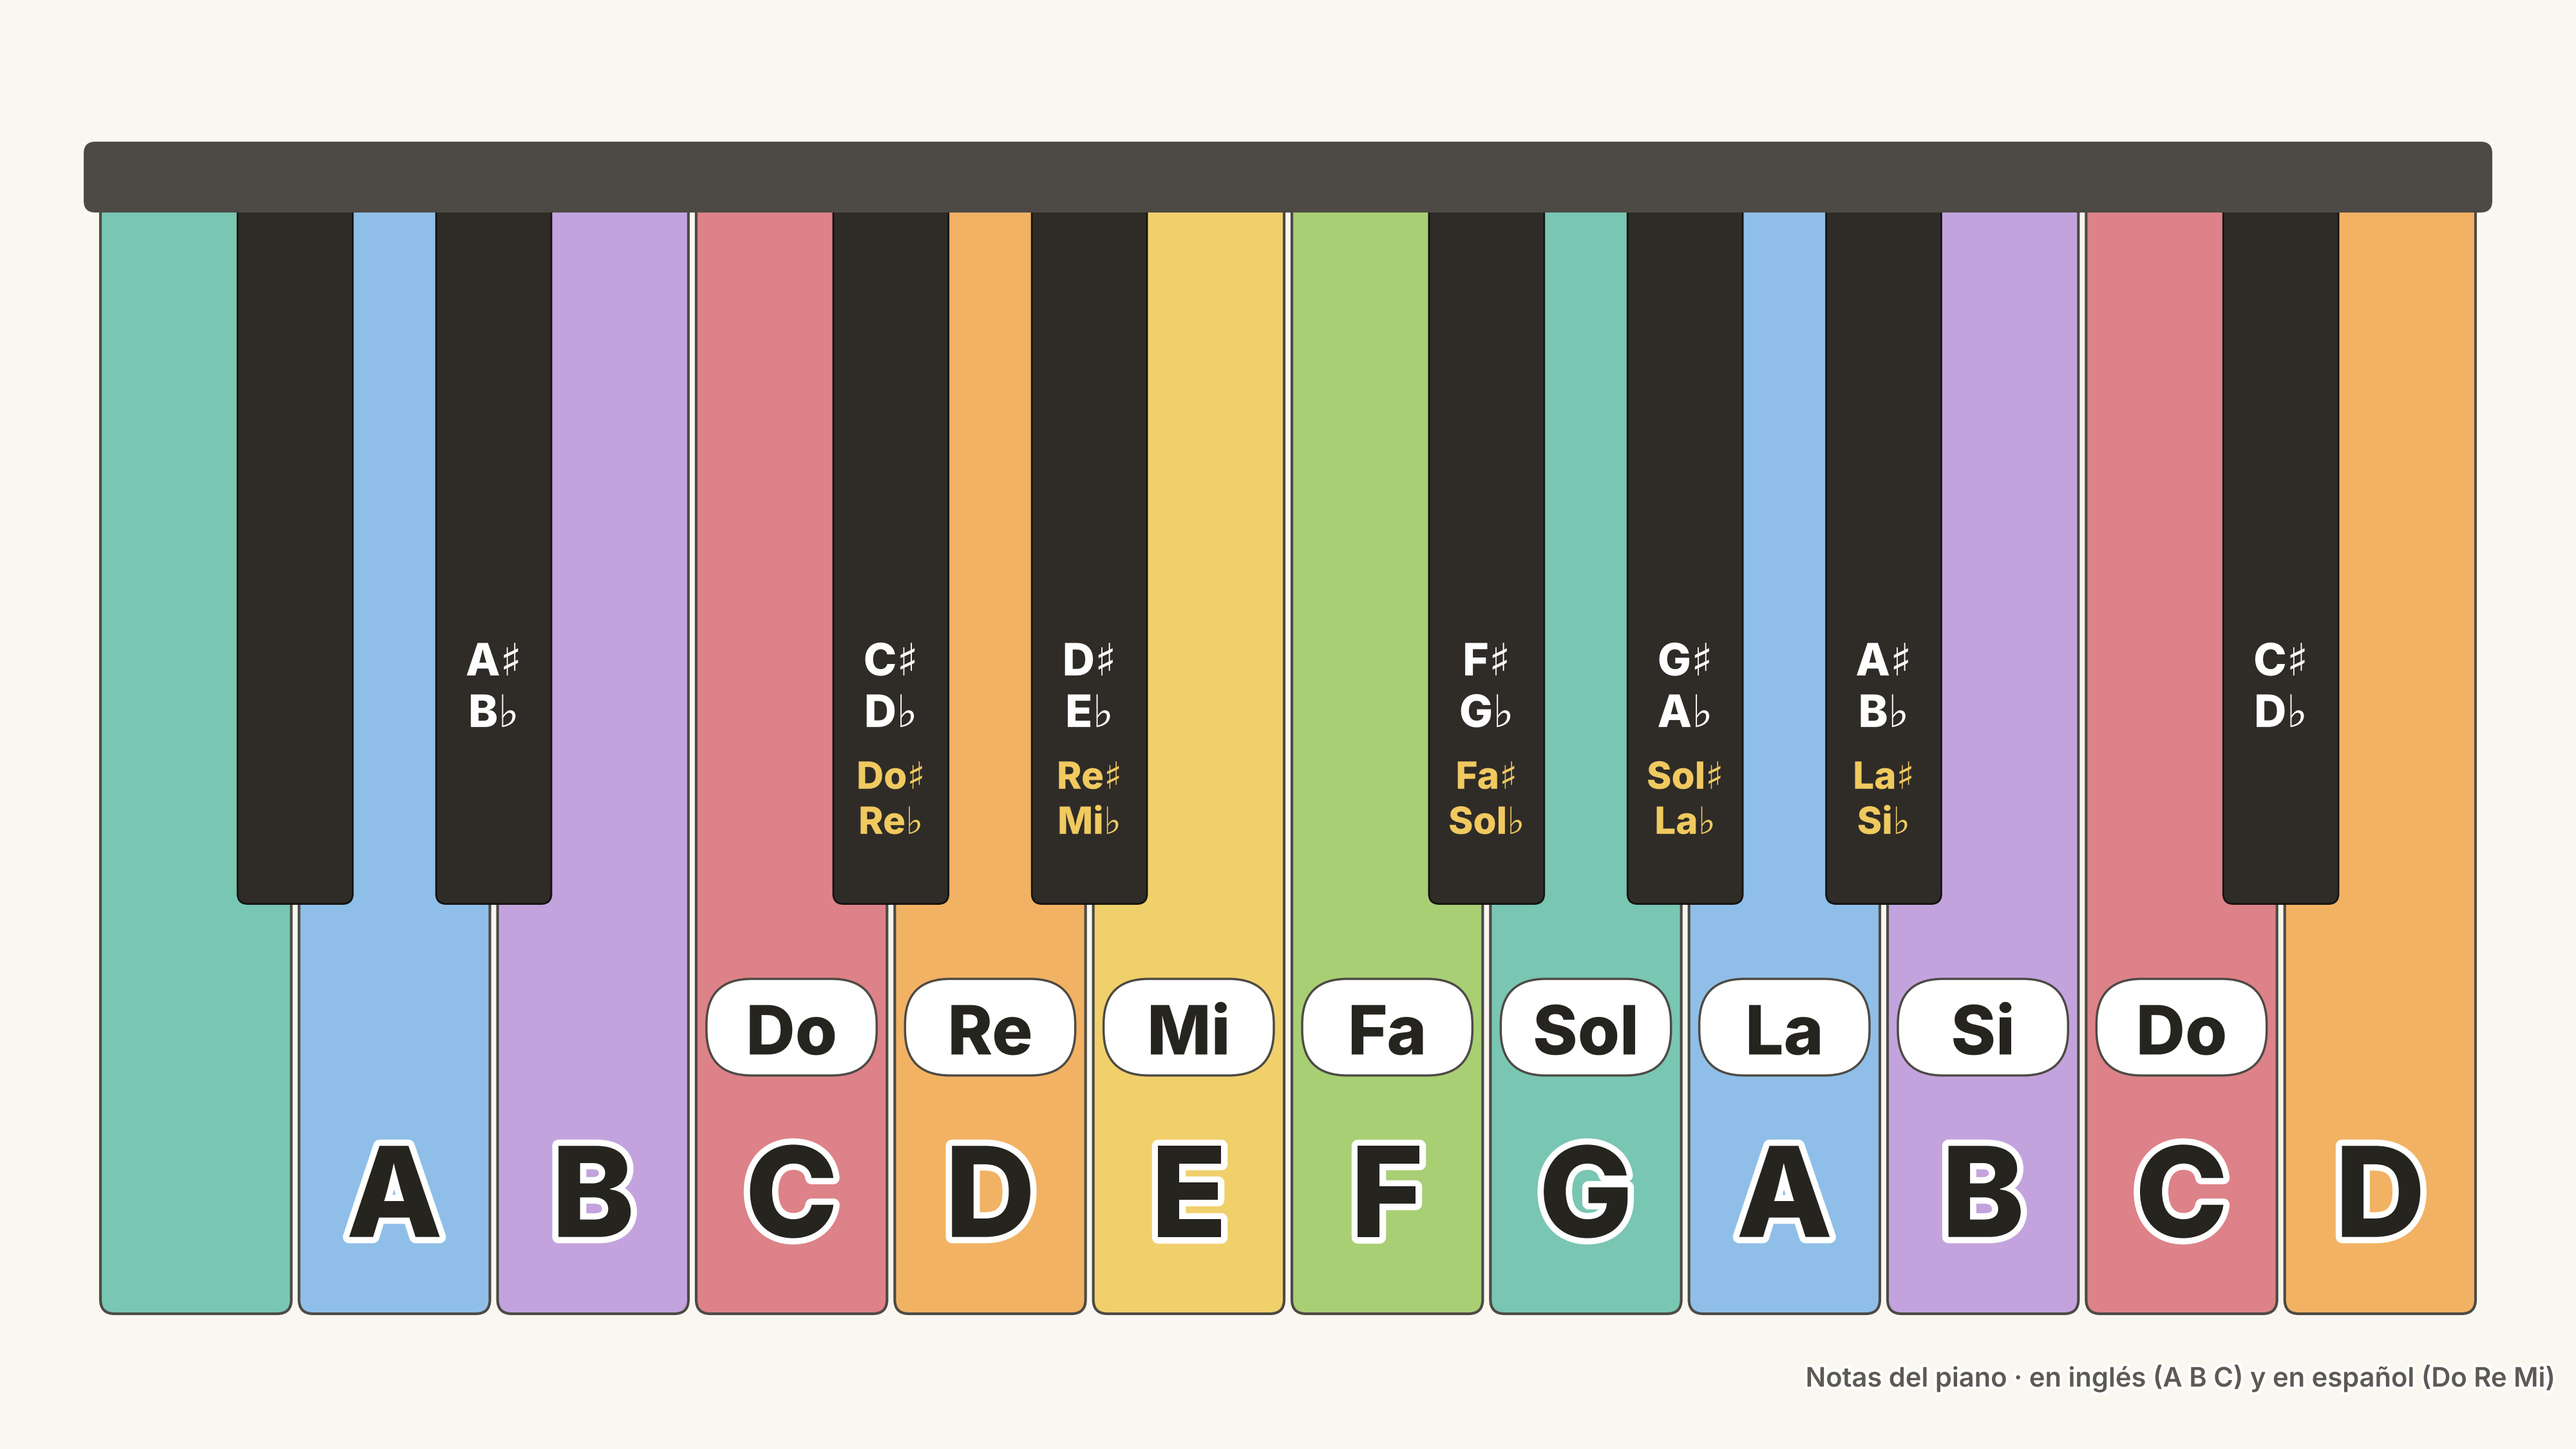
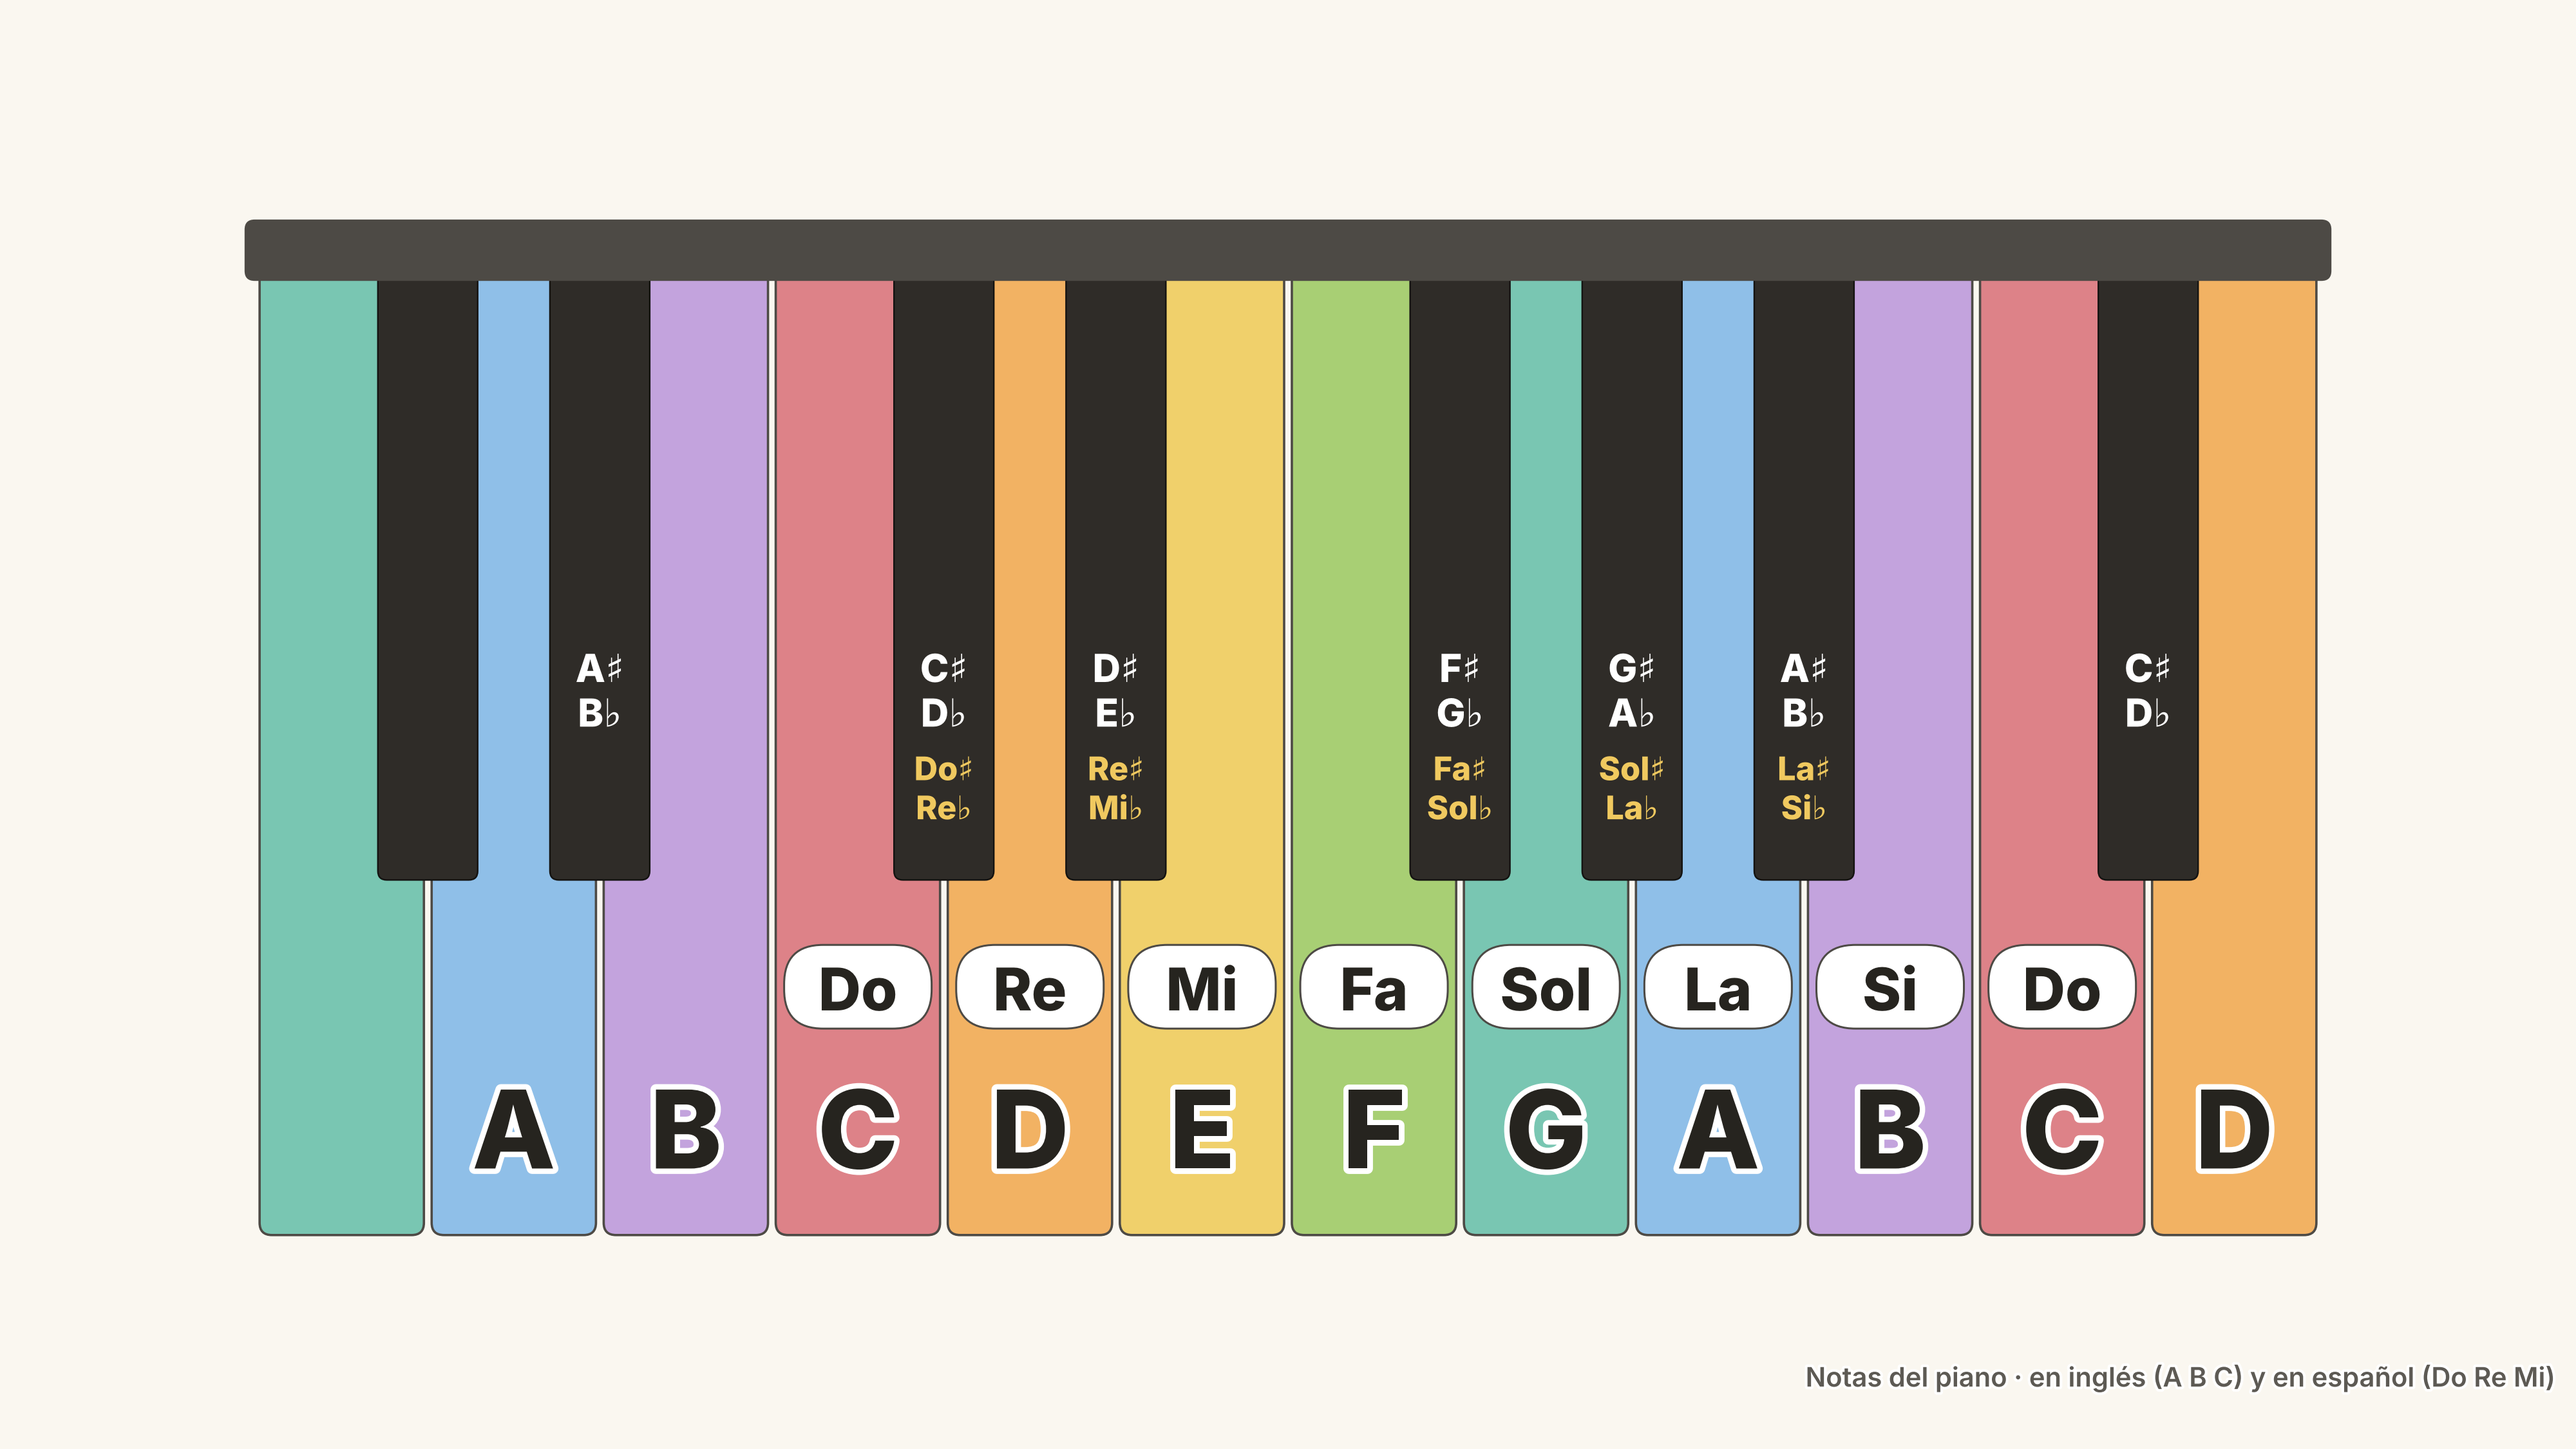
Piano: one white key of padding each side, proportions kept
Claude-Session: https://claude.ai/code/session_01EDKfW2ymmeBjWjJB1i7hni

diff --git a/tvmaps/maps_piano.py b/tvmaps/maps_piano.py
@@ -38,6 +38,8 @@ KEY_TOP = 1930
 KEY_BOTTOM = 210
 BLACK_W_FRAC = 0.58     # of a white key's width
 BLACK_LEN_FRAC = 0.63   # of a white key's length
+PAD_KEYS = 1            # extra empty space each side, in white-key widths
+GAP_PX = 12             # between white keys, on screen
 
 # One pastel per note, from the "vivo" political palette (a gentle rainbow
 # from Do).
@@ -77,12 +79,13 @@ def _font(weight):
 
 
 def _text(ax, x, y, s, size, weight, color, halo=None, halo_width=0,
-          zorder=10):
+          zorder=10, scale=1.0):
     from matplotlib import patheffects as pe
 
-    effects = ([pe.withStroke(linewidth=halo_width, foreground=halo)]
+    effects = ([pe.withStroke(linewidth=halo_width * scale, foreground=halo)]
                if halo else [])
-    ax.text(x, y, s, fontproperties=_font(weight), fontsize=size, color=color,
+    ax.text(x, y, s, fontproperties=_font(weight), fontsize=size * scale,
+            color=color,
             ha="center", va="center", zorder=zorder, path_effects=effects)
 
 
@@ -110,17 +113,24 @@ def style_rgb(hex_color):
 
 def _render(theme_name, footer):
     t = THEMES[theme_name]
-    frame = (0, 0, style.WIDTH_PX, style.HEIGHT_PX)
+    W, H = style.WIDTH_PX, style.HEIGHT_PX
+    n = len(WHITE)
+    kw = (W - 2 * MARGIN_X) / n
+    # The keyboard is laid out on a W x H design canvas; zooming the view out
+    # by `scale` pads PAD_KEYS key widths each side and keeps the proportions.
+    # Data-unit geometry shrinks with the view; point sizes (text, lines) are
+    # multiplied by `scale` to match.
+    scale = W / (W + 2 * PAD_KEYS * kw)
+    hw, hh = W / 2 / scale, H / 2 / scale
+    frame = (W / 2 - hw, H / 2 - hh, W / 2 + hw, H / 2 + hh)
     fig, ax = draw.new_map(frame)
     ax.set_facecolor(t["background"])
     fig.patch.set_facecolor(t["background"])
 
-    n = len(WHITE)
-    kw = (style.WIDTH_PX - 2 * MARGIN_X) / n
     klen = KEY_TOP - KEY_BOTTOM
     bw, blen = kw * BLACK_W_FRAC, klen * BLACK_LEN_FRAC
     x0 = MARGIN_X
-    gap = 12  # without it the keys read as one slab
+    gap = GAP_PX / scale  # without it the keys read as one slab
 
     # Case: a dark lid above the keys with a strip of red felt.
     if t["case"]:
@@ -151,7 +161,8 @@ def _render(theme_name, footer):
         fill = t["white"] or NOTE_COLORS[note]
         patch = _key_patch(x + gap / 2, KEY_BOTTOM, kw - gap, klen + 60, 22,
                            facecolor=fill, edgecolor=t["white_edge"],
-                           linewidth=3 if theme_name != "clasico" else 1.5,
+                           linewidth=(3 if theme_name != "clasico" else 1.5)
+                           * scale,
                            zorder=2)
         ax.add_patch(patch)
         if theme_name == "clasico":
@@ -166,16 +177,16 @@ def _render(theme_name, footer):
         if i >= FIRST_LABEL:
             halo = "#ffffff" if theme_name == "colores" else None
             _text(ax, cx, KEY_BOTTOM + 190, note, 140, "extrabold",
-                  style.LABEL_COLOR, halo=halo, halo_width=14)
+                  style.LABEL_COLOR, halo=halo, halo_width=14, scale=scale)
         if SOLFEO_RANGE[0] <= i <= SOLFEO_RANGE[1]:
             py = KEY_BOTTOM + 445
             pill_w, pill_h = kw - 44, 150
             ax.add_patch(_key_patch(cx - pill_w / 2, py - pill_h / 2, pill_w,
                                     pill_h, 70, facecolor=t["pill"],
                                     edgecolor=style.BORDER_DARK,
-                                    linewidth=2.5, zorder=8))
+                                    linewidth=2.5 * scale, zorder=8))
             _text(ax, cx, py - 4, SOLFEO[note], 76, "extrabold",
-                  t["pill_text"], zorder=9)
+                  t["pill_text"], zorder=9, scale=scale)
 
     # Black keys, on the boundary after each C, D, F, G, A.
     for i, note in enumerate(WHITE[:-1]):
@@ -184,7 +195,8 @@ def _render(theme_name, footer):
         bx = x0 + (i + 1) * kw - bw / 2
         by = KEY_TOP - blen
         patch = _key_patch(bx, by, bw, blen + 60, 16, facecolor=t["black"],
-                           edgecolor="#141311", linewidth=2, zorder=12)
+                           edgecolor="#141311", linewidth=2 * scale,
+                           zorder=12)
         ax.add_patch(patch)
         if theme_name == "clasico":
             _gradient(ax, (bx, by, bx + bw, KEY_TOP),
@@ -200,14 +212,14 @@ def _render(theme_name, footer):
         upper = NEXT[note]
         if i + 1 > FIRST_LABEL:
             _text(ax, cx, by + 380, f"{note}{SHARP}", 50, "extrabold",
-                  t["black_text"], zorder=15)
+                  t["black_text"], zorder=15, scale=scale)
             _text(ax, cx, by + 300, f"{upper}{FLAT}", 50, "extrabold",
-                  t["black_text"], zorder=15)
+                  t["black_text"], zorder=15, scale=scale)
         if SOLFEO_RANGE[0] <= i < SOLFEO_RANGE[1]:
             _text(ax, cx, by + 200, f"{SOLFEO[note]}{SHARP}", 42,
-                  "extrabold", t["black_solfeo"], zorder=15)
+                  "extrabold", t["black_solfeo"], zorder=15, scale=scale)
             _text(ax, cx, by + 130, f"{SOLFEO[upper]}{FLAT}", 42,
-                  "extrabold", t["black_solfeo"], zorder=15)
+                  "extrabold", t["black_solfeo"], zorder=15, scale=scale)
 
     draw.draw_footer(ax, frame, footer, side="right")
     return draw.save(fig, f"piano-{theme_name}")
